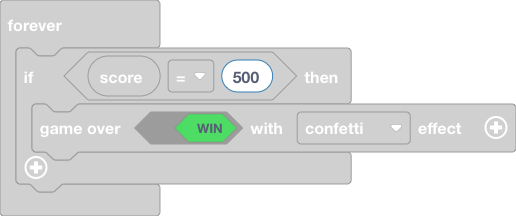
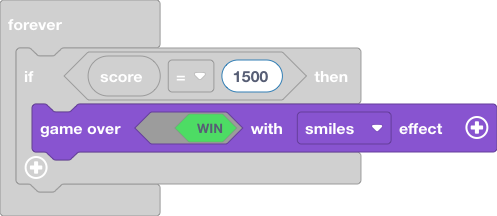
Update main.blocks, main.ts

diff --git a/main.ts b/main.ts
@@ -56,8 +56,8 @@ forever(function () {
     music.playMelody("B - A - F E F D ", 214)
 })
 forever(function () {
-    if (info.score() == 500) {
-        game.over(true, effects.confetti)
+    if (info.score() == 1500) {
+        game.over(true, effects.smiles)
     }
 })
 game.onUpdateInterval(100, function () {
